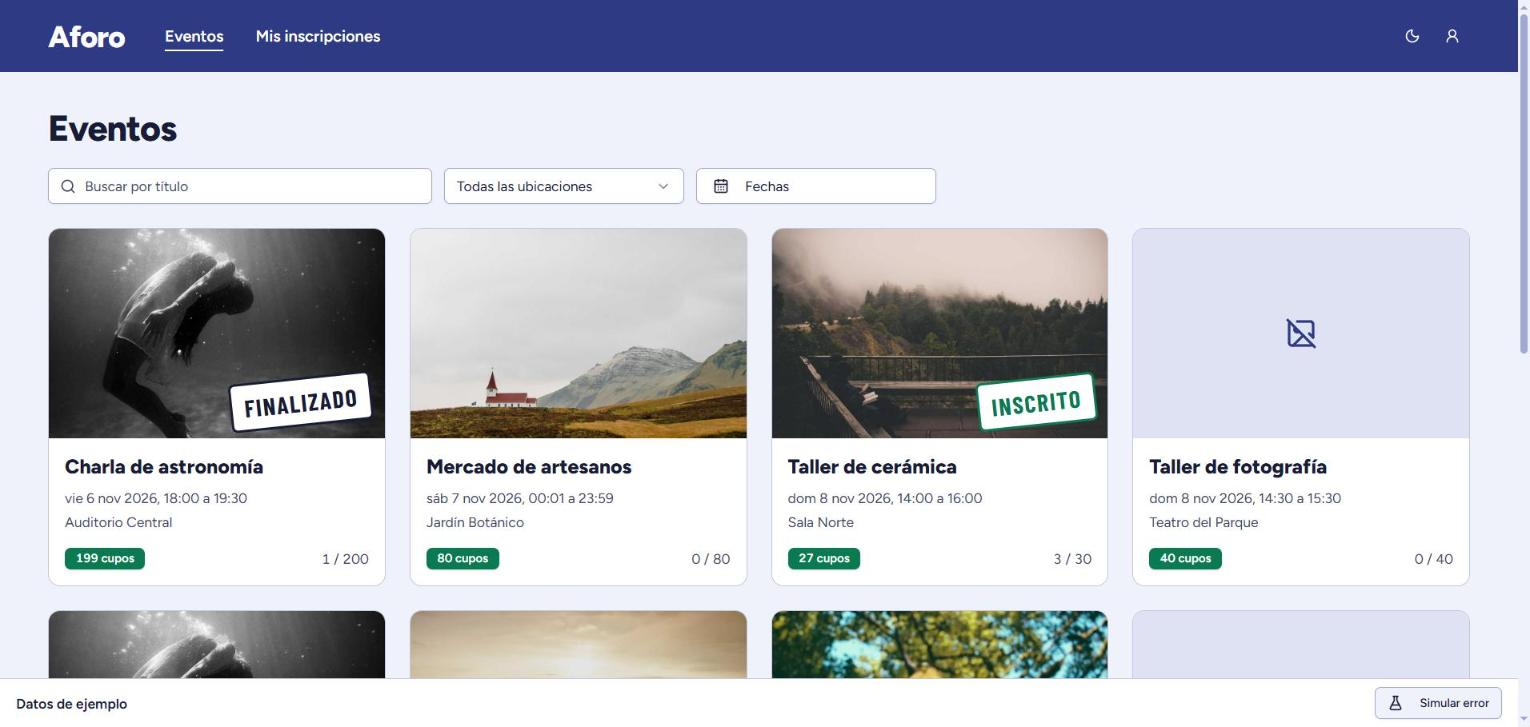
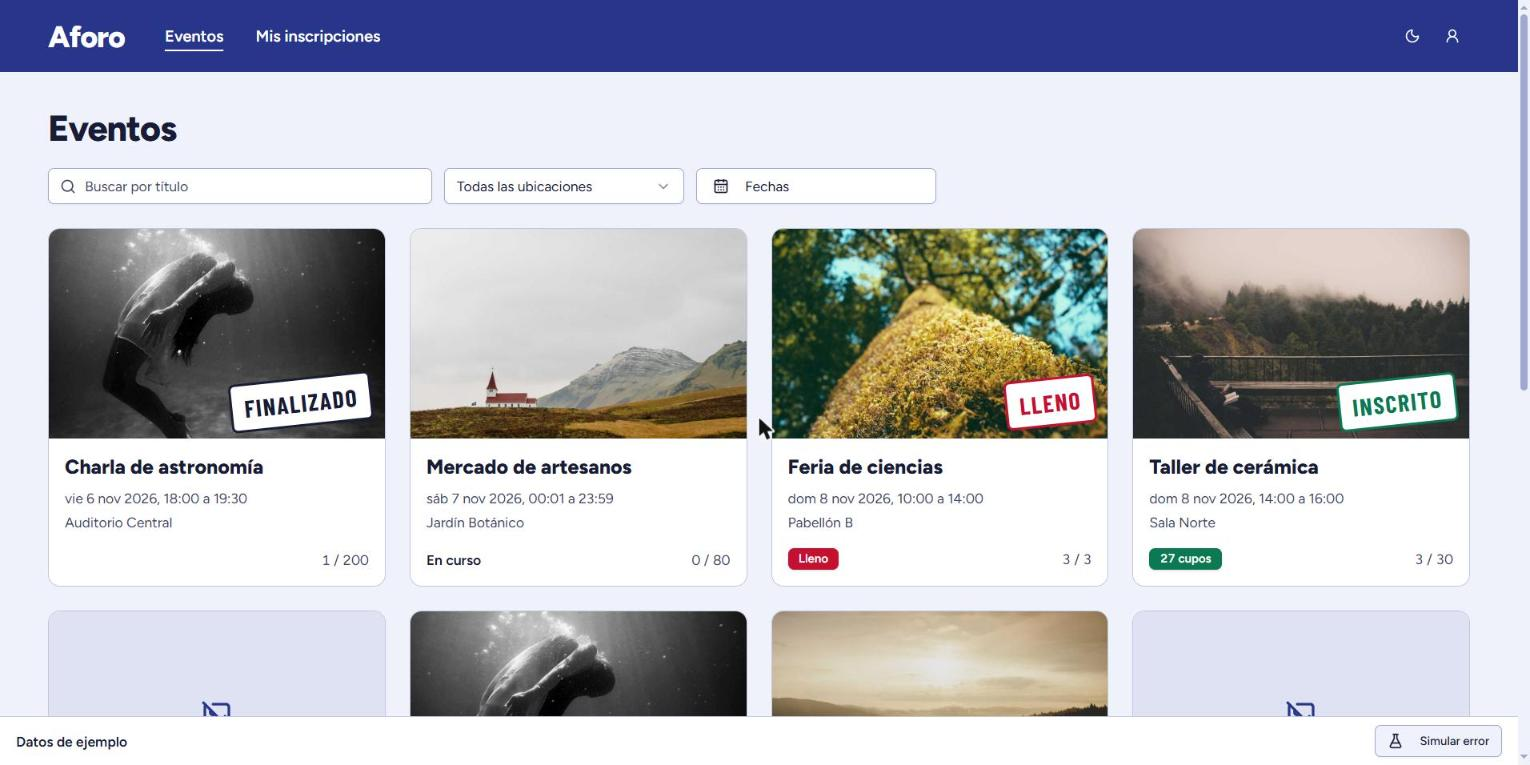
docs: agregar sistema de diseño

diff --git a/src/index.css b/src/index.css
@@ -26,7 +26,7 @@
     --shell-foreground: 0 0% 100%;
     --border: 229 35% 82%;
     --input: 229 35% 72%;
-    --ring: 232 48% 35%;
+    --ring: 232 56% 35%;
     --radius: 0.5rem;
     --sidebar-background: 229 45% 92%;
     color-scheme: light;

diff --git a/DESIGN.md b/DESIGN.md
@@ -1,0 +1,184 @@
+---
+name: Aforo
+description: Cartelera e inscripción a eventos, con cada estado estampado como en una mesa de registro.
+colors:
+  barra-indigo: "#27348B"
+  papel-azulado: "#EEF1FA"
+  tinta: "#171C33"
+  tinta-suave: "#43485F"
+  superficie: "#FFFFFF"
+  bruma: "#DFE4F3"
+  borde: "#C4CBE1"
+  rojo-sello: "#C60D30"
+  verde-propio: "#0B7A53"
+typography:
+  headline:
+    fontFamily: "Figtree, system-ui, sans-serif"
+    fontSize: "2.25rem"
+    fontWeight: 800
+    lineHeight: 1.1
+    letterSpacing: "-0.025em"
+  title:
+    fontFamily: "Figtree, system-ui, sans-serif"
+    fontSize: "1.25rem"
+    fontWeight: 800
+    lineHeight: 1.25
+  body:
+    fontFamily: "Figtree, system-ui, sans-serif"
+    fontSize: "1rem"
+    fontWeight: 400
+    lineHeight: 1.5
+  label:
+    fontFamily: "Figtree, system-ui, sans-serif"
+    fontSize: "0.875rem"
+    fontWeight: 600
+    lineHeight: 1.25
+  sello:
+    fontFamily: "Barlow Condensed, Figtree, sans-serif"
+    fontSize: "1.5rem"
+    fontWeight: 700
+    lineHeight: 1
+    letterSpacing: "0.06em"
+rounded:
+  sm: "4px"
+  md: "6px"
+  lg: "8px"
+  xl: "12px"
+spacing:
+  xs: "8px"
+  sm: "12px"
+  md: "16px"
+  lg: "24px"
+  xl: "48px"
+components:
+  button-primary:
+    backgroundColor: "{colors.barra-indigo}"
+    textColor: "{colors.superficie}"
+    rounded: "{rounded.md}"
+    padding: "8px 16px"
+    height: "40px"
+  button-outline:
+    backgroundColor: "{colors.superficie}"
+    textColor: "{colors.tinta}"
+    rounded: "{rounded.md}"
+    padding: "8px 16px"
+    height: "40px"
+  input:
+    backgroundColor: "{colors.superficie}"
+    textColor: "{colors.tinta}"
+    rounded: "{rounded.md}"
+    height: "40px"
+  event-card:
+    backgroundColor: "{colors.superficie}"
+    textColor: "{colors.tinta}"
+    rounded: "{rounded.xl}"
+    padding: "16px"
+  sello-inscrito:
+    backgroundColor: "{colors.superficie}"
+    textColor: "{colors.verde-propio}"
+    typography: "{typography.sello}"
+    rounded: "{rounded.md}"
+    padding: "6px 12px"
+  sello-lleno:
+    backgroundColor: "{colors.superficie}"
+    textColor: "{colors.rojo-sello}"
+    typography: "{typography.sello}"
+    rounded: "{rounded.md}"
+    padding: "6px 12px"
+---
+
+# Design System: Aforo
+
+## Overview
+
+**Creative North Star: "La mesa de registro"**
+
+Aforo se comporta como la mesa donde alguien revisa una lista y estampa cada entrada. La interfaz es plana, ordenada y discreta, y el único elemento ruidoso es el sello: una etiqueta girada, condensada y en mayúsculas que dice de un vistazo en qué estado está un evento. Todo lo demás existe para que ese sello se lea.
+
+La pantalla responde tres preguntas: qué hay, qué queda y qué ya es tuyo. Cuando algo no se puede hacer, se dice por qué, en texto visible junto al control. El administrador trabaja en tablas densas con las mismas señales que ve el visitante.
+
+**Características clave:**
+- Papel azulado y tinta, sin sombras decorativas ni degradados.
+- Una sola familia en toda la interfaz. La segunda solo aparece dentro de un sello.
+- Los datos cambian en su sitio, y los números usan cifras tabulares.
+
+## Colors
+
+Índigo plano para la estructura, papel para el fondo, y dos colores de estado con función fija.
+
+### Primary
+- **Barra índigo** (#27348B, `--primary`, `--shell`): barra superior, acción principal y foco. En modo oscuro la barra baja a `232 56% 24%` y `--primary` sube a un índigo claro `230 80% 80%`.
+
+### Neutral
+- **Papel azulado** (#EEF1FA): fondo de página.
+- **Superficie** (#FFFFFF): tarjetas, tablas, diálogos y el fondo de los sellos.
+- **Tinta** (#171C33) y **tinta suave** (#43485F): texto principal y secundario.
+- **Bruma** (#DFE4F3) y **borde** (#C4CBE1): relleno neutro y líneas.
+
+### Estado
+- **Rojo sello** (#C60D30): Lleno, Cancelado, Cancelada, errores y acciones destructivas.
+- **Verde propio** (#0B7A53): lo que es del usuario, sobre todo el sello Inscrito.
+
+**La regla del verde reservado.** El verde significa "esto es tuyo". La única excepción es el Badge de cupos disponibles de la cartelera, que pide CU02, y solo aparece mientras el evento admite inscripción.
+
+## Typography
+
+**Interfaz:** Figtree, con system-ui de respaldo.
+**Sellos:** Barlow Condensed 700, con Figtree de respaldo.
+
+**Carácter:** Figtree es amable y legible en tablas densas. Barlow Condensed aporta la voz de tampón, y aparece tan poco que nunca se gasta.
+
+### Hierarchy
+- **Headline** (800, 2.25rem, 1.1): título de cada página.
+- **Title** (800, 1.25rem): nombre de evento en la tarjeta.
+- **Body** (400, 1rem, 1.5): descripciones, con un ancho máximo de `max-w-prose`.
+- **Label** (600, 0.875rem): etiquetas de formulario y metadatos.
+- **Sello** (Barlow Condensed 700, 1.5rem, mayúsculas, tracking .06em): solo dentro de `Sello`. La variante plana de tablas usa 0.875rem.
+
+**La regla de las cifras tabulares.** Horas, cupos y conteos usan `.tabular`, para que un dato no salte de ancho al cambiar.
+
+## Layout
+
+La cartelera es una rejilla de columnas enteras: 1 en móvil, 2 desde 640 px, 3 desde 1024 px y 4 desde 1280 px, con 24 px de separación. La barra superior mide 72 px.
+
+Administración usa una barra lateral de 208 px desde 1024 px, que en móvil se vuelve un Sheet. Las tablas se apilan como fichas por debajo de 768 px usando las clases de `src/components/tablaApilada.ts`, y las celdas numéricas llevan su etiqueta visible porque la cabecera desaparece.
+
+## Elevation & Depth
+
+Sistema plano. La jerarquía viene del borde y del contraste entre papel y superficie. El hover de una tarjeta cambia el color del borde a índigo y no la levanta. Las únicas sombras son las de capas flotantes de shadcn: menús, popovers, diálogos y toasts.
+
+## Shapes
+
+Radios moderados: 8 px en controles y contenedores de tabla, 12 px en tarjetas de evento e imágenes. El sello es la única forma girada del sistema, a -6 grados, con borde de 3 px en `currentColor`. Su versión plana para tablas no gira y usa borde de 2 px.
+
+## Components
+
+### Sello
+La pieza que define el sistema. Estados: Inscrito, Lleno, Finalizado, Cancelado y Cancelada. El orden de prioridad vive en `selloDeEvento`. Fondo siempre opaco, porque se apoya sobre fotos externas arbitrarias. Va en la esquina inferior derecha de la imagen, y al confirmar una inscripción cae con `sello-cae` en 200 ms.
+
+### Tarjeta de evento
+Enlace completo con imagen 16:10, sello, título, fecha, ubicación y cupos. El Badge de cupos solo aparece si aún se puede reservar. Un evento en marcha dice "En curso".
+
+### Botón con motivo
+`BotonConMotivo` nunca deshabilita en silencio: el motivo aparece como texto visible debajo. Los elementos de menú deshabilitados siguen la misma regla.
+
+### Formularios
+Eventos en Sheet lateral y ubicaciones en Dialog. Los errores del backend se pintan encima de los botones, en un bloque `role="alert"`, y el panel sigue abierto.
+
+### Confirmación
+`ConfirmDialog` usa "Volver" como salida, y una acción con verbo concreto, como "Sí, cancelar evento".
+
+## Do's and Don'ts
+
+### Do:
+- **Do** estampar el estado con `Sello` en vez de inventar un Badge nuevo. La excepción documentada es Activa/Inactiva en ubicaciones, que pide CU07.
+- **Do** mostrar el motivo de todo control deshabilitado en texto visible.
+- **Do** actualizar los datos en su sitio, respetando `motion-reduce`.
+- **Do** anunciar cupos solo cuando se pueda actuar sobre ellos.
+
+### Don't:
+- **Don't** usar degradados, efecto vidrio ni sombras duras.
+- **Don't** usar Barlow Condensed fuera de un sello.
+- **Don't** poner eyebrows sobre los títulos.
+- **Don't** usar verde para algo que no sea del usuario, salvo el Badge de CU02.
+- **Don't** imitar tinta, textura o relieve en el sello. Es una etiqueta plana, no una simulación de material.
